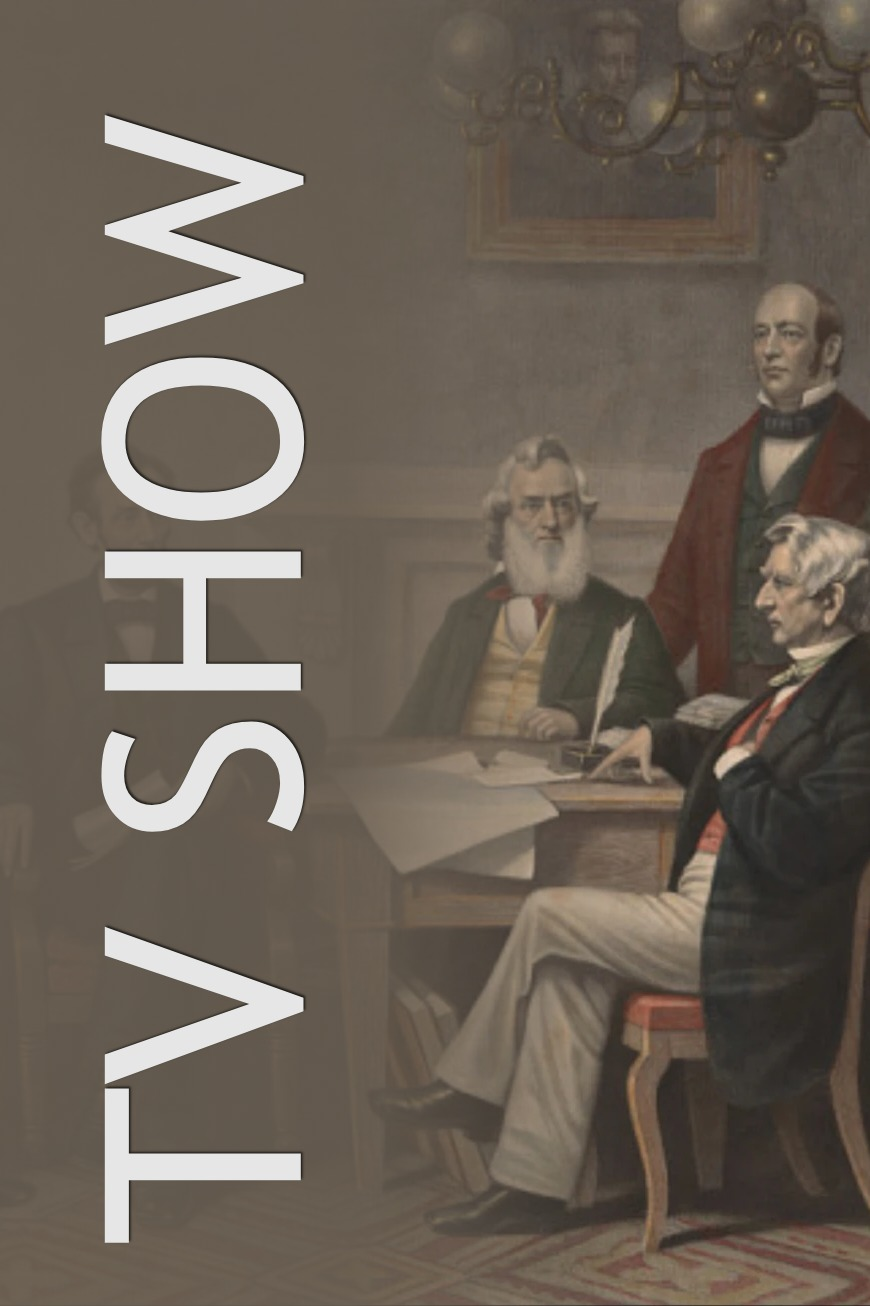
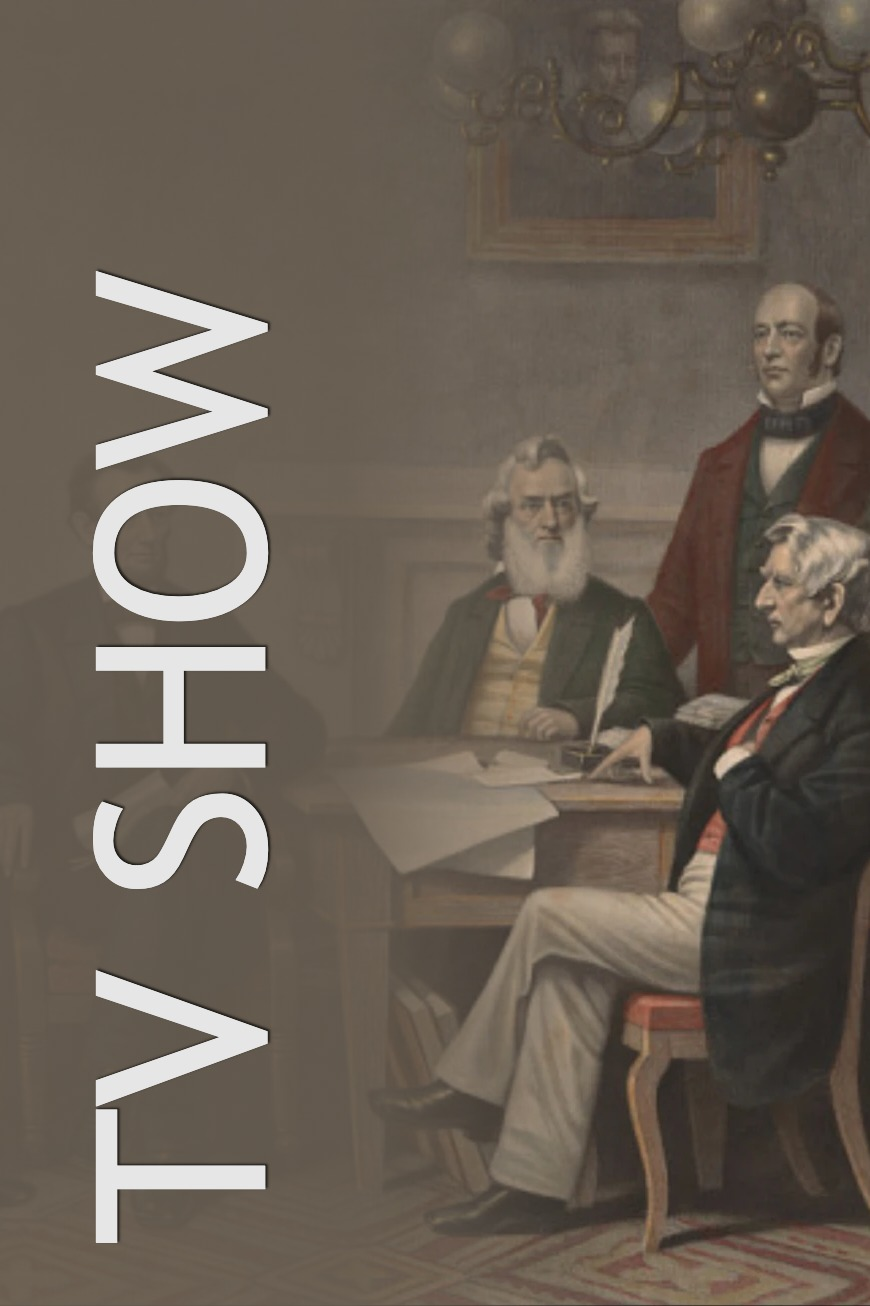
Size Fade's sideways series name from its drawn width and keep it on one row, so it fills the poster without wrapping past the safe area.

Changed region(s): [[0.0931, 0.0919, 0.3724, 0.9495]]

diff --git a/Jellyfin.Plugin.EpisodePosterGenerator/Services/Posters/Types/Fade.cs b/Jellyfin.Plugin.EpisodePosterGenerator/Services/Posters/Types/Fade.cs
@@ -1,4 +1,5 @@
 using System;
+using System.Collections.Generic;
 using System.Globalization;
 using Jellyfin.Plugin.EpisodePosterGenerator.Models;
 using Jellyfin.Plugin.EpisodePosterGenerator.Utilities;
@@ -25,6 +26,10 @@ namespace Jellyfin.Plugin.EpisodePosterGenerator.Services.Posters
         // A series has no number, so its name runs the full height instead. This is how much of
         // the width the rotated letters may be tall.
         private const float FocalTitleThicknessRatio = 0.35f;
+
+        // Probe size for measuring a focal title. Text metrics scale linearly, so one measurement
+        // sizes it.
+        private const float FocalProbeSize = 100f;
 
         // Style
         // The poster style this generator produces.
@@ -158,7 +163,11 @@ namespace Jellyfin.Plugin.EpisodePosterGenerator.Services.Posters
                 return;
             }
 
-            var lines = TextUtils.FitTitleLines(text, style.Font, availableRun, config.LongTitleHandling);
+            // A focal title is already sized to run the whole height on one row. Wrapping it would
+            // stack rows across the poster instead of along it, which is how it ran off the edge.
+            var lines = focal
+                ? (IReadOnlyList<string>)new[] { text }
+                : TextUtils.FitTitleLines(text, style.Font, availableRun, config.LongTitleHandling);
             if (lines.Count == 0)
             {
                 return;
@@ -185,7 +194,18 @@ namespace Jellyfin.Plugin.EpisodePosterGenerator.Services.Posters
         private static TextStyle CreateFocalTitleStyle(PosterSettings config, int unit, string text, float run, float thickness)
         {
             var typeface = FontUtils.ResolveTypeface(config.EffectiveTitleFontPath, config.TitleFontFamily, FontUtils.GetFontStyle(config.TitleFontStyle));
-            float fontSize = FontUtils.CalculateOptimalFontSize(text, typeface, run, thickness);
+
+            // Sized from what the canvas actually draws: the advance width along the run, and the
+            // line box across it. Sizing from the glyphs' ink instead let the name run past the
+            // safe area, since ink is narrower than the advance the draw call uses.
+            using var probe = PaintFactory.CreateFont(typeface, FocalProbeSize);
+            var metrics = probe.Metrics;
+            float advance = probe.MeasureText(text);
+            float lineBox = -metrics.Ascent + metrics.Descent;
+
+            float byRun = advance > 0f ? run / advance * FocalProbeSize : run;
+            float byThickness = lineBox > 0f ? thickness / lineBox * FocalProbeSize : thickness;
+            float fontSize = Math.Max(8f, Math.Min(byRun, byThickness));
 
             return PaintFactory.CreateTextStyle(ColorUtils.ParseHexColor(config.TitleFontColor), fontSize, typeface, unit, SKTextAlign.Left);
         }
